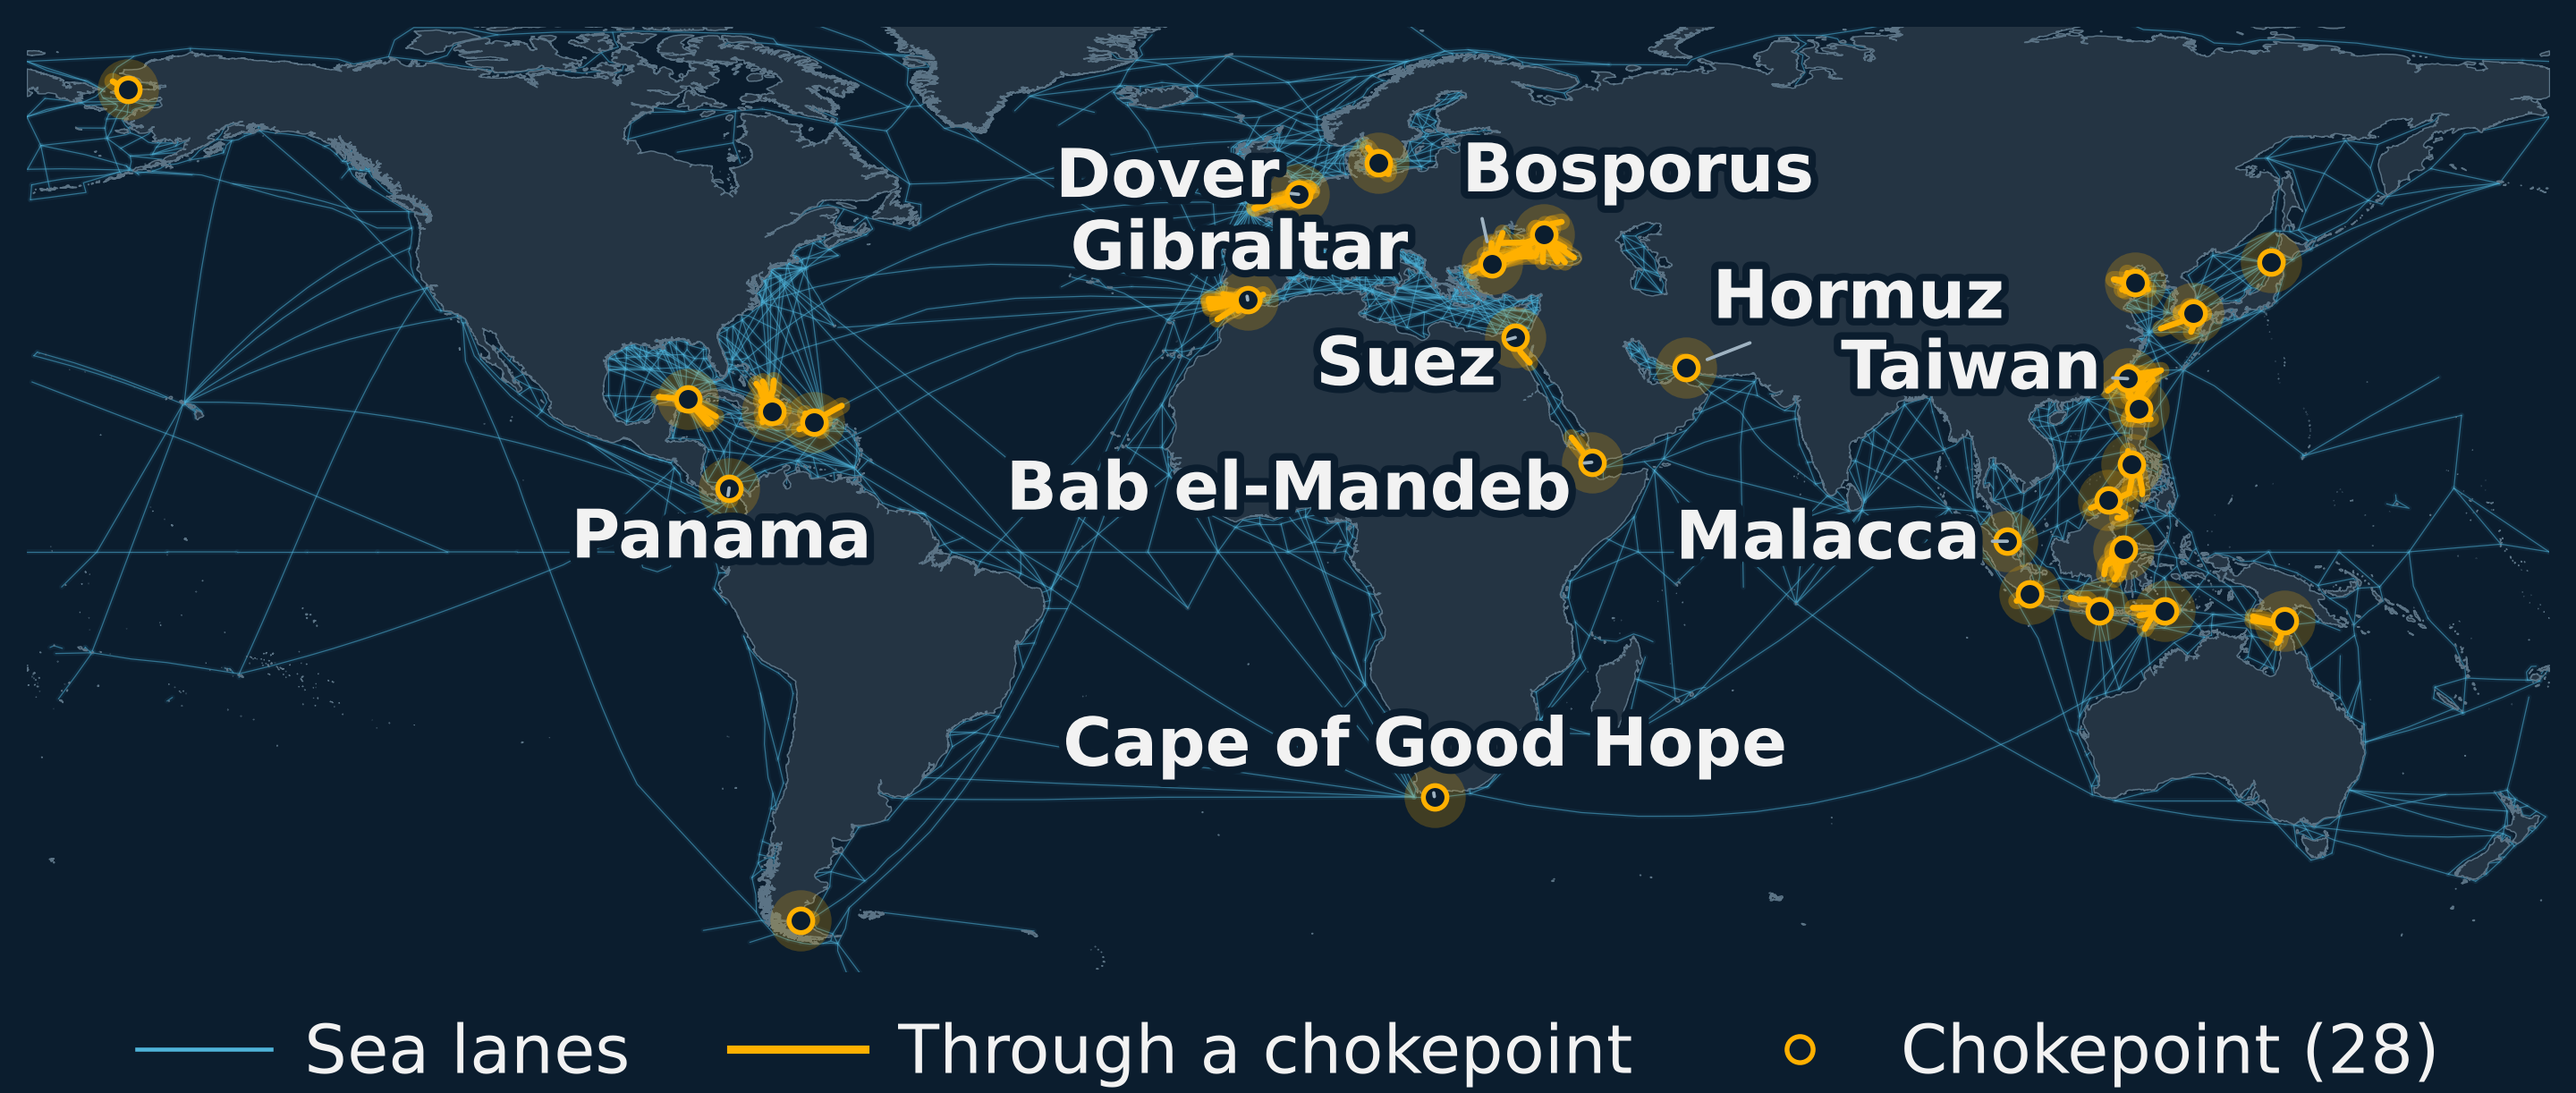
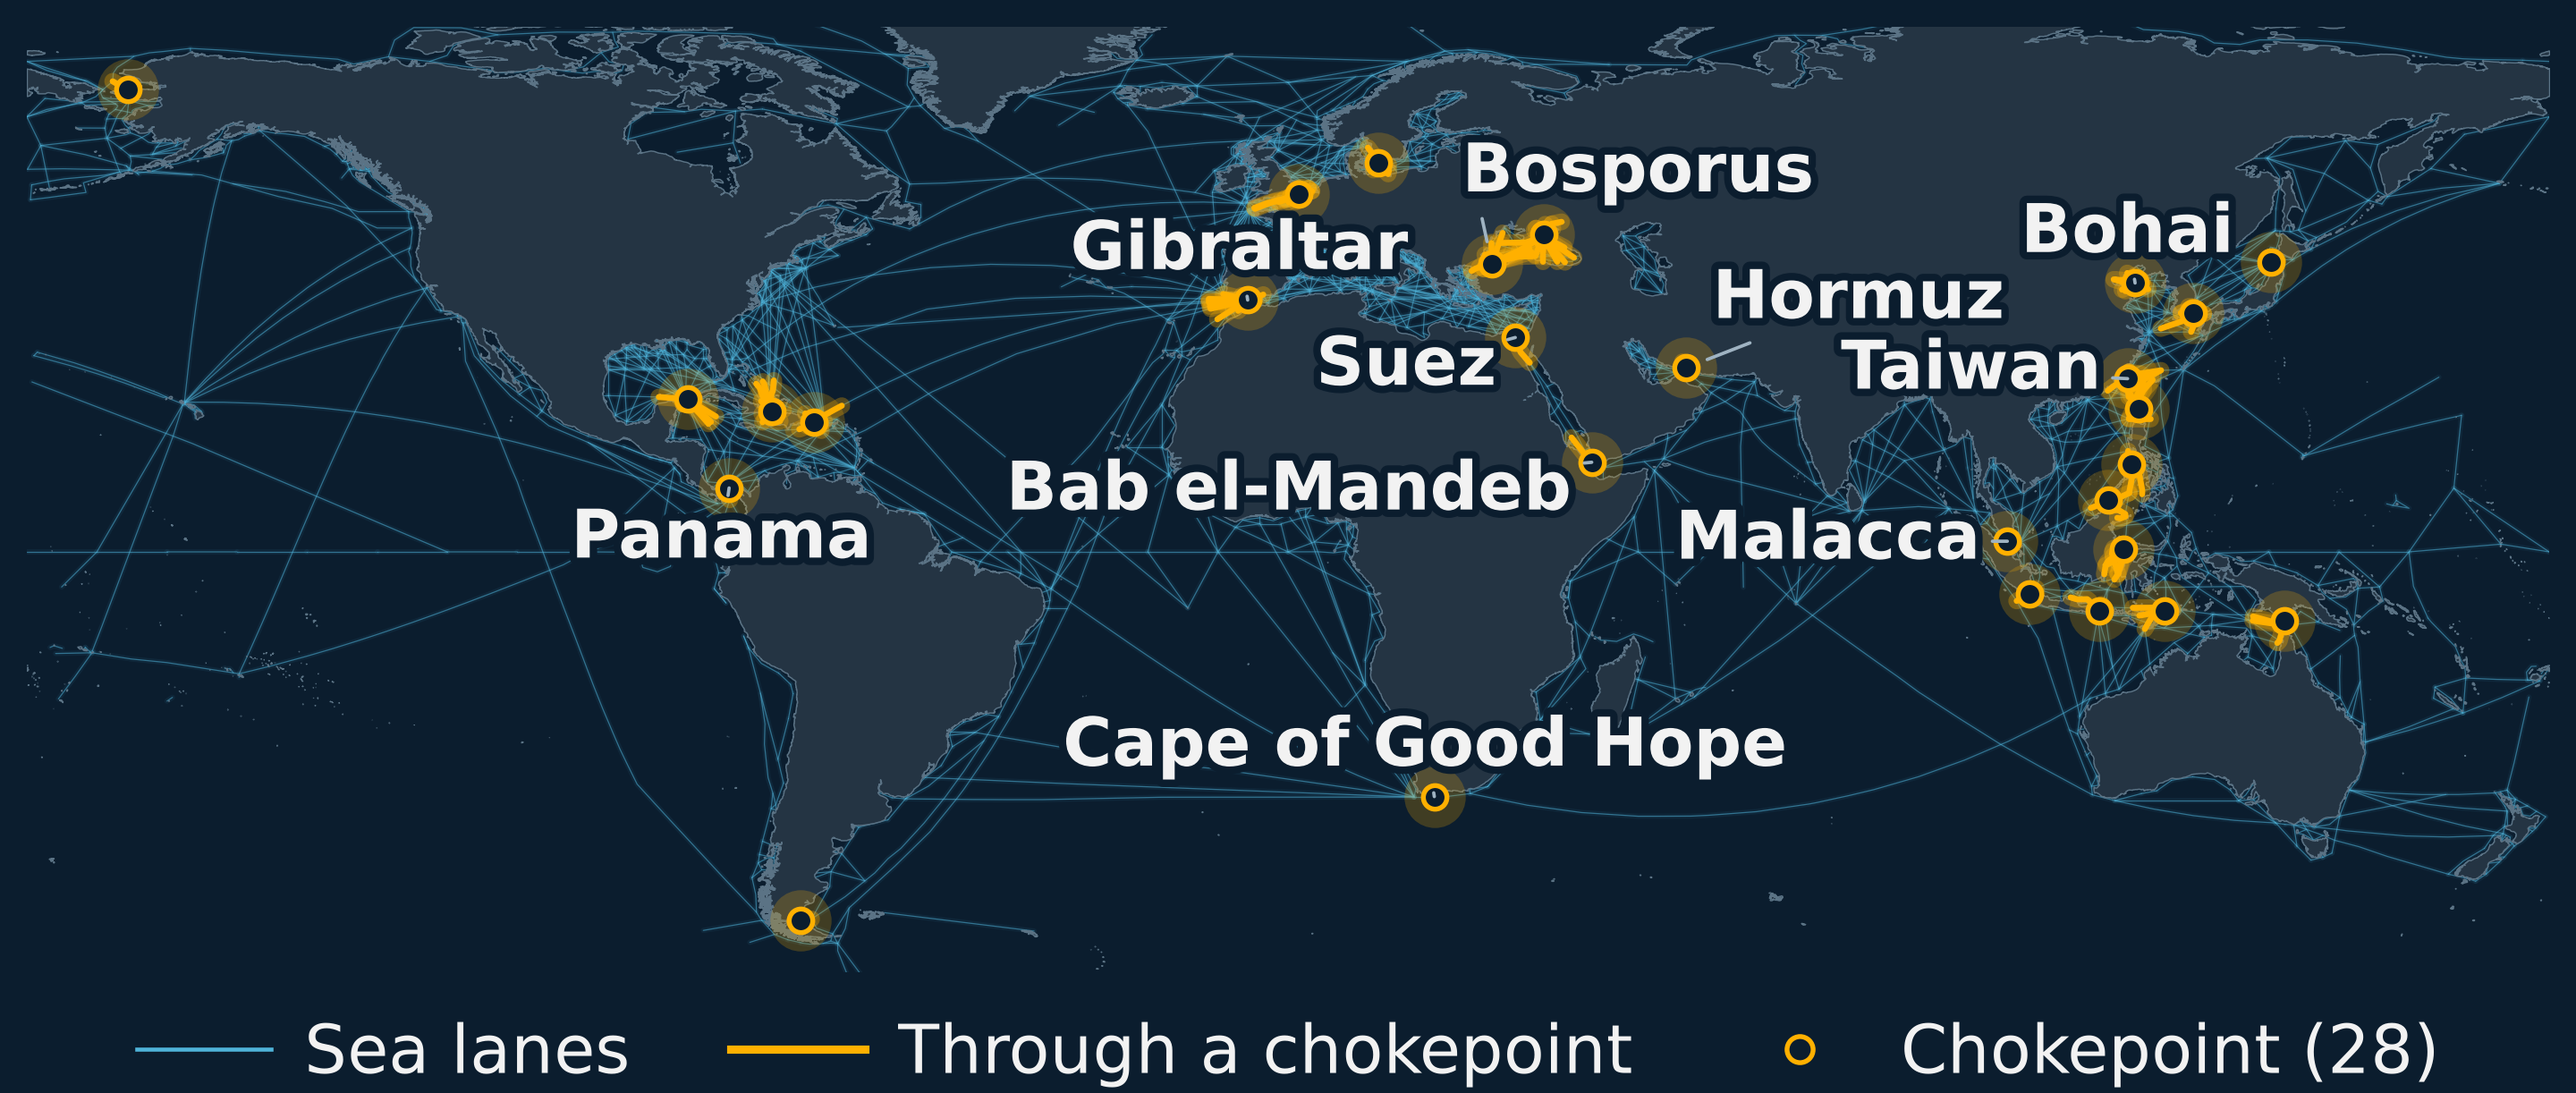
S11b: clean composite map for the title slide; Bohai replaces Dover on the study map (task 6.14)
- outputs.poster.clean_map writes fig_6_1_composite_map_clean.png: the poster composite map
  with no labels, leaders or legend, 13.00 x 5.88 in at 300 dpi; label checks skipped for it.
  fig_6_1_composite_map.png is byte-identical.
- Study map labels Bohai (rank 5) above its dot instead of Dover; overlap and nearest-circle
  checks pass; size unchanged at 9.60 x 4.08 in.
- Paper figures and tables unchanged (match paper-gold).

Changed region(s): [[0.7812, 0.1555, 0.875, 0.2488], [0.4062, 0.1244, 0.5, 0.1866]]

diff --git a/scripts/s11b_poster_figures.py b/scripts/s11b_poster_figures.py
@@ -6,7 +6,9 @@ its helpers; s11_figures.py and the paper figures are not changed. Labels are pl
 use the short names in outputs.poster.short_names, and carry no data line (the poster footer
 credits the data). Written to paths.figures_poster at outputs.poster.dpi:
 
-1. fig_6_1_composite_map.png: ranked composite map (top outputs.top_n_labels labelled).
+1. fig_6_1_composite_map.png: ranked composite map (top outputs.top_n_labels labelled), and,
+   if outputs.poster.clean_map, fig_6_1_composite_map_clean.png: the same map with no labels,
+   leaders or legend, for the title slide.
 2. fig_6_5_trade_conflict.png: trade vs. violence; every point drawn, those in
    outputs.poster.trade_conflict.labels named.
 3. fig_6_6_score_breakdown.png: stacked score parts, all chokepoints, by rank.
@@ -136,7 +138,7 @@ def save_poster(fig, name, settings, log):
     fig.canvas.draw()
     renderer = fig.canvas.get_renderer()
     texts = drawn_texts(fig)
-    smallest = min(t.get_fontsize() for t in texts)
+    smallest = min((t.get_fontsize() for t in texts), default=np.inf)
     if smallest < poster["font_pt"]["minimum"]:
         raise ValueError(f"{name}: text at {smallest} pt is below the poster minimum")
     boxes = [Text.get_window_extent(t, renderer) for t in texts]
@@ -152,7 +154,10 @@ def save_poster(fig, name, settings, log):
     folder.mkdir(parents=True, exist_ok=True)
     fig.savefig(folder / name, dpi=poster["dpi"])
     width, height = fig.get_size_inches()
-    log.info("%s | %d drawn texts, smallest %.1f pt, no text overlaps", name, len(texts), smallest)
+    if texts:
+        log.info("%s | %d drawn texts, smallest %.1f pt, no text overlaps", name, len(texts), smallest)
+    else:
+        log.info("%s | no drawn text", name)
     log.info("Wrote %s (%.2f x %.2f in, %d dpi)", folder / name, width, height, poster["dpi"])
     plt.close(fig)
 
@@ -161,8 +166,12 @@ def save_poster(fig, name, settings, log):
 # Composite map
 # ---------------------------------------------------------------------
 
-def poster_composite(points, routes, basemap, outline, settings, log):
-    """Composite map at poster size: S11 fig_composite with larger circles, text and routes."""
+def poster_composite(points, routes, basemap, outline, settings, log, clean=False):
+    """Composite map at poster size: S11 fig_composite with larger circles, text and routes.
+
+    With clean=True (outputs.poster.clean_map) it draws the title-slide copy: the same map with
+    no labels, leaders or legend, cropped to the map with map_margin_in on every side.
+    """
     out = settings["outputs"]
     style, poster = out["style"], out["poster"]
     spec, font = poster["composite"], poster["font_pt"]
@@ -173,6 +182,8 @@ def poster_composite(points, routes, basemap, outline, settings, log):
     width, margin, band = spec["width_in"], spec["map_margin_in"], spec["legend_band_in"]
     map_width = width - 2 * margin
     map_height = map_width * (ymax - ymin) / (xmax - xmin)
+    if clean:
+        band = margin   # no legend: the bottom margin matches the others
     height = margin + map_height + band
     fig = plt.figure(figsize=(width, height))
     ax = fig.add_axes([margin / width, band / height, map_width / width, map_height / height])
@@ -186,6 +197,10 @@ def poster_composite(points, routes, basemap, outline, settings, log):
     classes = np.digitize(order["score_composite"], breaks[1:-1])
     ax.scatter(order.geometry.x, order.geometry.y, s=areas[classes], facecolor=cmap(classes),
                edgecolor=style["zero_marker"], linewidth=spec["marker_edge_width"], zorder=3)
+    if clean:
+        # Title-slide copy: no text, so the label checks do not apply.
+        save_poster(fig, "fig_6_1_composite_map_clean.png", settings, log)
+        return
 
     # Legend: one entry per class, at its circle size.
     handles = [Line2D([], [], linestyle="none")]
@@ -487,8 +502,10 @@ def main():
     routes = s11.route_values(routes, subflows, log)
     basemap = s11.read_basemap(settings, log)
 
-    poster_composite(chokepoints.to_crs(crs), routes.to_crs(crs), basemap.to_crs(crs),
-                     s11.world_outline(crs), settings, log)
+    map_layers = (chokepoints.to_crs(crs), routes.to_crs(crs), basemap.to_crs(crs), s11.world_outline(crs))
+    poster_composite(*map_layers, settings, log)
+    if settings["outputs"]["poster"]["clean_map"]:
+        poster_composite(*map_layers, settings, log, clean=True)
     poster_trade_conflict(chokepoints, settings, log)
     poster_breakdown(chokepoints, settings, log)
     poster_impact(chokepoints, settings, log)
